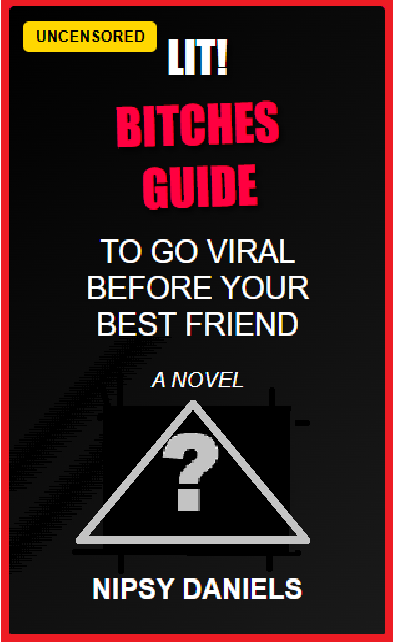
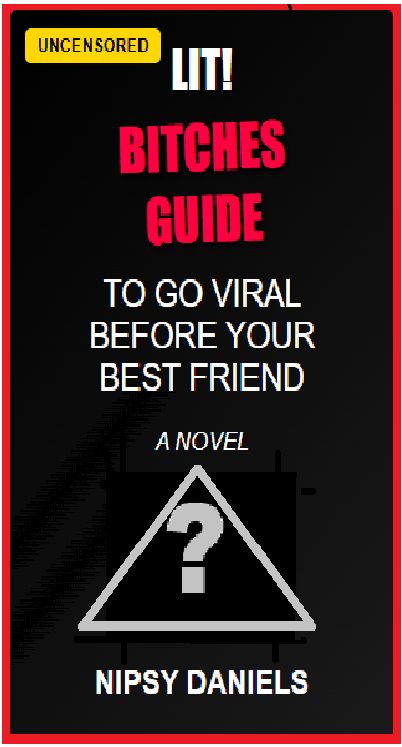
Regenerate homepage: LIT1.png left, nup.png right, gradient background, verified spelling

diff --git a/index.html b/index.html
@@ -40,7 +40,7 @@
                 <!-- Clickable Book Cover -->
                 <div class="book-cover-center">
                     <a href="https://www.amazon.com/dp/B0FTTPDP6L" target="_blank">
-                        <img src="images/LIT2.png" alt="LIT! BITCHES GUIDE TO GO VIRAL BEFORE YOUR BEST FRIEND" class="book-image">
+                        <img src="images/LIT1.png" alt="LIT! BITCHES GUIDE TO GO VIRAL BEFORE YOUR BEST FRIEND" class="book-image">
                     </a>
                 </div>
 
@@ -56,7 +56,7 @@
                 </a>
             </div>
             <div class="hero-right">
-                <img src="images/2nip.png" alt="Nipsy Daniels" class="author-image">
+                <img src="images/nup.png" alt="Nipsy Daniels" class="author-image">
             </div>
         </div>
     </section>
@@ -94,7 +94,7 @@
             <h2>Books</h2>
             <div class="book-card">
                 <a href="https://www.amazon.com/dp/B0FTTPDP6L" target="_blank">
-                    <img src="images/LIT2.png" alt="LIT! BITCHES GUIDE TO GO VIRAL BEFORE YOUR BEST FRIEND" class="book-cover-image">
+                    <img src="images/LIT1.png" alt="LIT! BITCHES GUIDE TO GO VIRAL BEFORE YOUR BEST FRIEND" class="book-cover-image">
                 </a>
                 <div class="book-info">
                     <h3>LIT! BITCHES GUIDE TO GO VIRAL BEFORE YOUR BEST FRIEND</h3>

diff --git a/styles.css b/styles.css
@@ -72,7 +72,7 @@ body {
     min-height: 80vh;
     display: flex;
     align-items: center;
-    background-color: #f5f5f5;
+    background: linear-gradient(to right, #f5f5f5 0%, #f5f5f5 50%, #e8e8e8 100%);
 }
 
 .hero-content {
